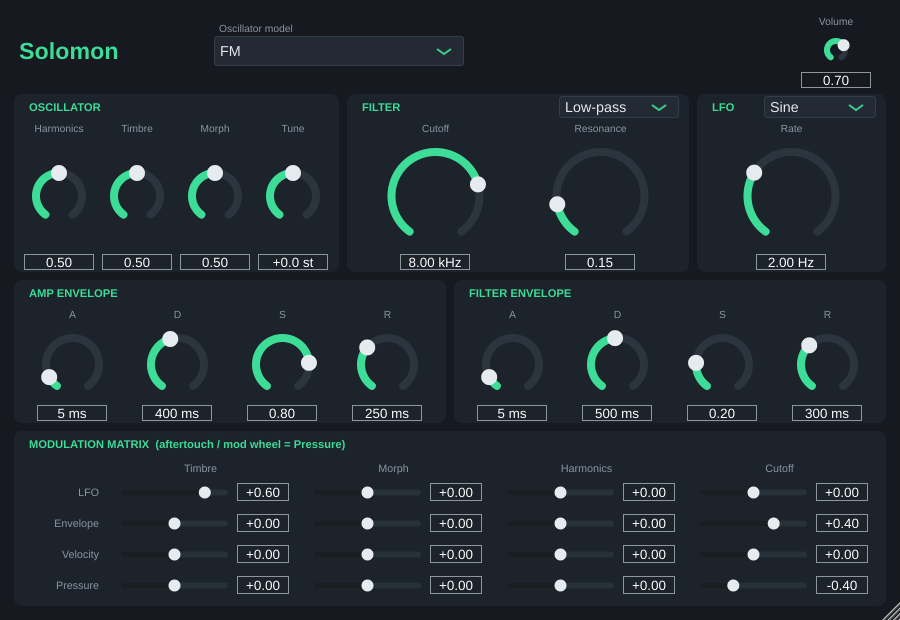
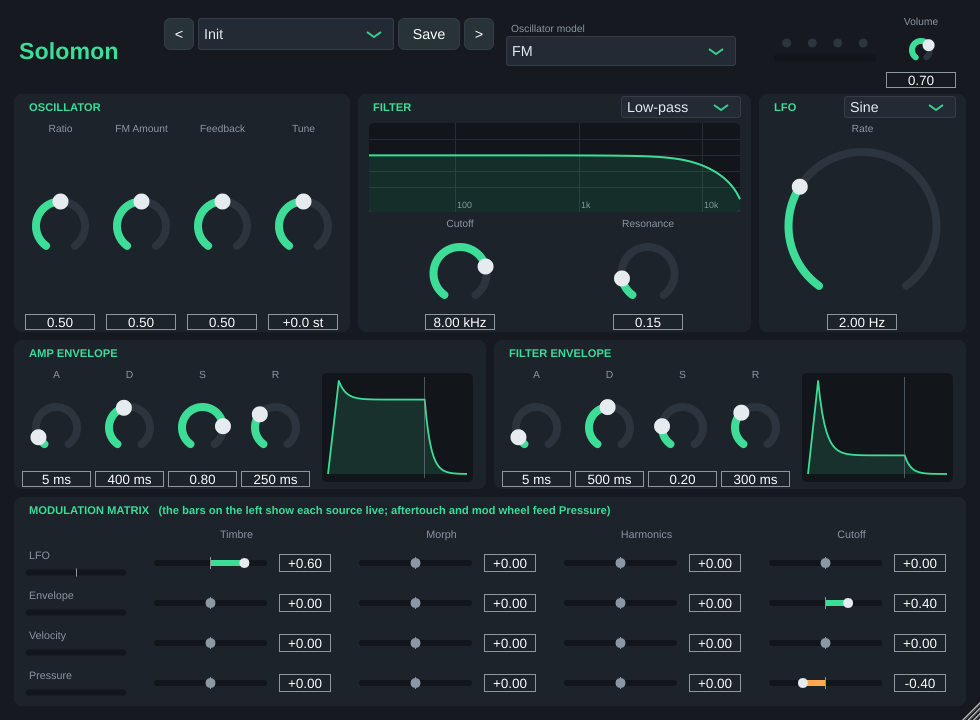
Presets, dynamic control names, filter curve, envelope views and live meters
- 13 factory presets (validated against the real parameter set, level-checked by the tests) and
  user presets stored as files with cleaned names; previous/next/save controls
- Harmonics/Timbre/Morph are named after what they do in the selected model (derived from the
  model source); no control turned out to be inactive in any deterministic model
- live filter response curve (verified against the real filter), ADSR shape views, voice lamps,
  output meter, live bars for each modulation source, bipolar matrix sliders
- user preset files go through the same size/structure/range checks as host sessions
- new instances start as 'Init'; docs, security policy and changelog updated

diff --git a/Source/PluginProcessor.cpp b/Source/PluginProcessor.cpp
@@ -89,6 +89,7 @@ SolomonProcessor::SolomonProcessor()
             p.mod[s][d] = get (modId (s, d));
 
     mono.assign (4096, 0.0f);
+    apvts.state.setProperty ("preset", "Init", nullptr);      // a new instance starts from the default sound
 }
 
 Params SolomonProcessor::readParams() const

diff --git a/README.md b/README.md
@@ -66,6 +66,14 @@ docs/              additional documentation
 - All controls are **automatable** parameters and are saved with the project.
 - **Any sample rate:** the engine runs at 48 kHz internally and is converted to the host rate with a
   band-limited resampler (verified at 22.05 to 192 kHz).
+- **Presets:** 13 factory starting points (Init, Analog Bass, Sync Lead, Warm Strings, Glass Keys, Bell Tower,
+  Pluck, Wavetable Sweep, Organ Chords, Chip Arp, Swarm Cloud, Wind, Pressure Pad) and your own user presets
+  (*Save* button). User presets are plain files, so they can be shared; they live in
+  `%APPDATA%\Solomon\Presets` (Windows), `~/Library/Application Support/Solomon/Presets` (macOS) or
+  `~/.config/Solomon/Presets` (Linux).
+- **An interface that tells you what is going on:** the three macro knobs are named after what they do in the
+  selected model; a live filter response curve (set cut-off and modulated cut-off); the shape of both
+  envelopes; lamps for the four voices and an output level meter; live bars for every modulation source.
 - **Resizable interface** with tooltips.
 
 ## Installation
@@ -126,7 +134,8 @@ ctest --test-dir build --output-on-failure
 
 ## Known limitations
 
-- Version 0.x: the sound design and presets are still being developed; there is no preset browser yet.
+- Version 0.x: the factory presets are starting points that have been level-checked by automated tests but not
+  yet refined by ear; expect to adjust them.
 - The six-operator FM models, the speech model and the drum models of the original oscillator
   code are intentionally not included.
 - Voice stealing retriggers the pitch abruptly (no glide), so very dense chords played while all voices are
@@ -136,7 +145,7 @@ ctest --test-dir build --output-on-failure
 
 ## Roadmap
 
-- Preset browser and a first factory bank
+- Preset categories, tags and a search field
 - Glide, unison and a cycling envelope
 - Arpeggiator and sequencer
 - Effects (delay, reverb)

diff --git a/SECURITY.md b/SECURITY.md
@@ -40,7 +40,11 @@ ISO/IEC 29147 and the EU Cyber Resilience Act.
   run under AddressSanitizer and UndefinedBehaviorSanitizer in CI.
 - **Real-time safety.** The audio thread never blocks: it exchanges data with the UI through atomics
   (and, where needed, a lock-free FIFO or a try-lock).
-- **File access.** The plug-in does not read or write files of its own; session data is handled by the host.
+- **File access.** Session data is handled by the host. The only files the plug-in touches are user presets
+  (`*.solomonpreset`) in its own folder (`%APPDATA%\Solomon\Presets`, `~/Library/Application Support/Solomon/Presets`,
+  `~/.config/Solomon/Presets`): they are written only there, with file names cleaned so a name can never point
+  outside the folder, and every preset file is read through the same size, structure and range checks as a host
+  session. It never executes files.
 - **Supply chain.** Dependencies are pinned (`SOLOMON_JUCE_TAG`; the vendored oscillator code is pinned by commit
   in `tools/vendor_mutable.sh` and each file keeps its license header), GitHub Actions are pinned to commit SHAs
   and kept up to date by Dependabot, and the workflow token is read-only by default. Third-party components

diff --git a/CHANGELOG.md b/CHANGELOG.md
@@ -11,6 +11,9 @@ The format follows [Keep a Changelog](https://keepachangelog.com/en/1.1.0/) and 
   LFO and a 4 x 4 modulation matrix.
 - Band-limited resampling from the 48 kHz core to any host sample rate.
 - Automatable parameters, MIDI (notes, bend, mod wheel, aftertouch, sustain), resizable editor.
+- Presets: 13 factory presets, user presets saved as files, previous/next buttons.
+- Editor: control names that follow the selected oscillator model, live filter response curve, envelope
+  shape views, voice lamps and output meter, live modulation source bars, bipolar matrix sliders.
 - Vendored MIT-licensed oscillator code with a reproducible import script.
 - Initial project structure.
 
